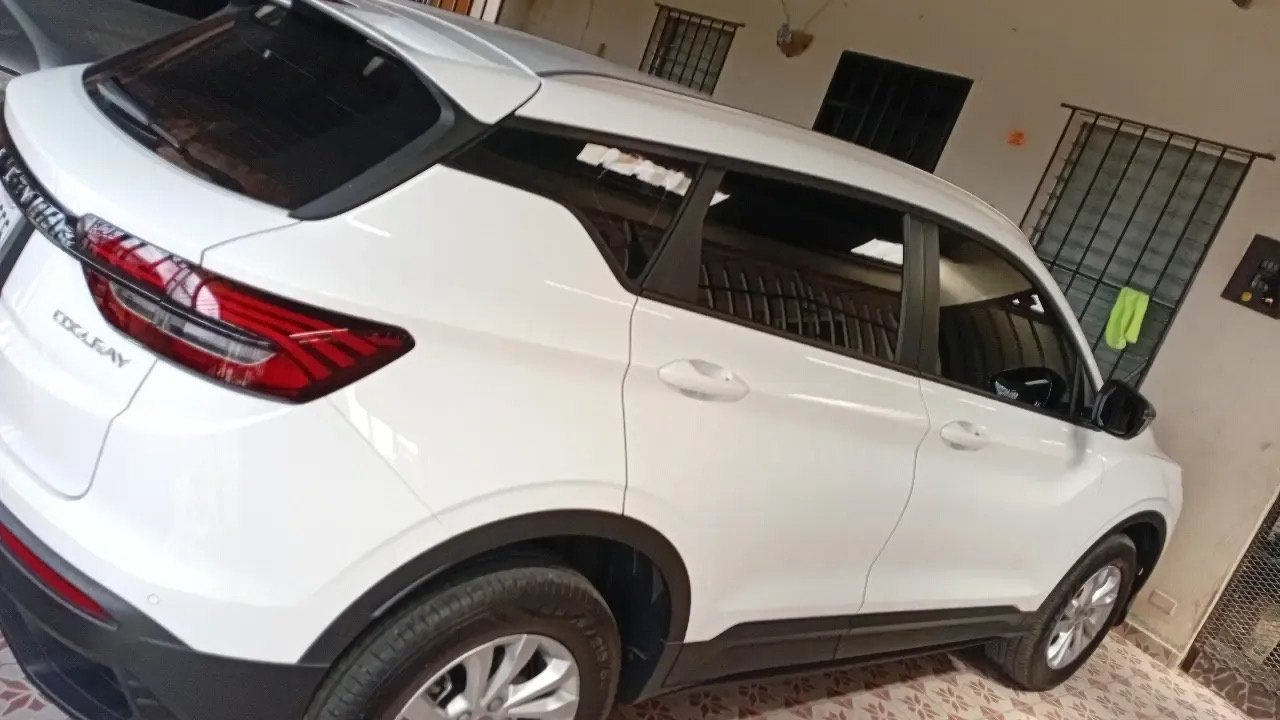
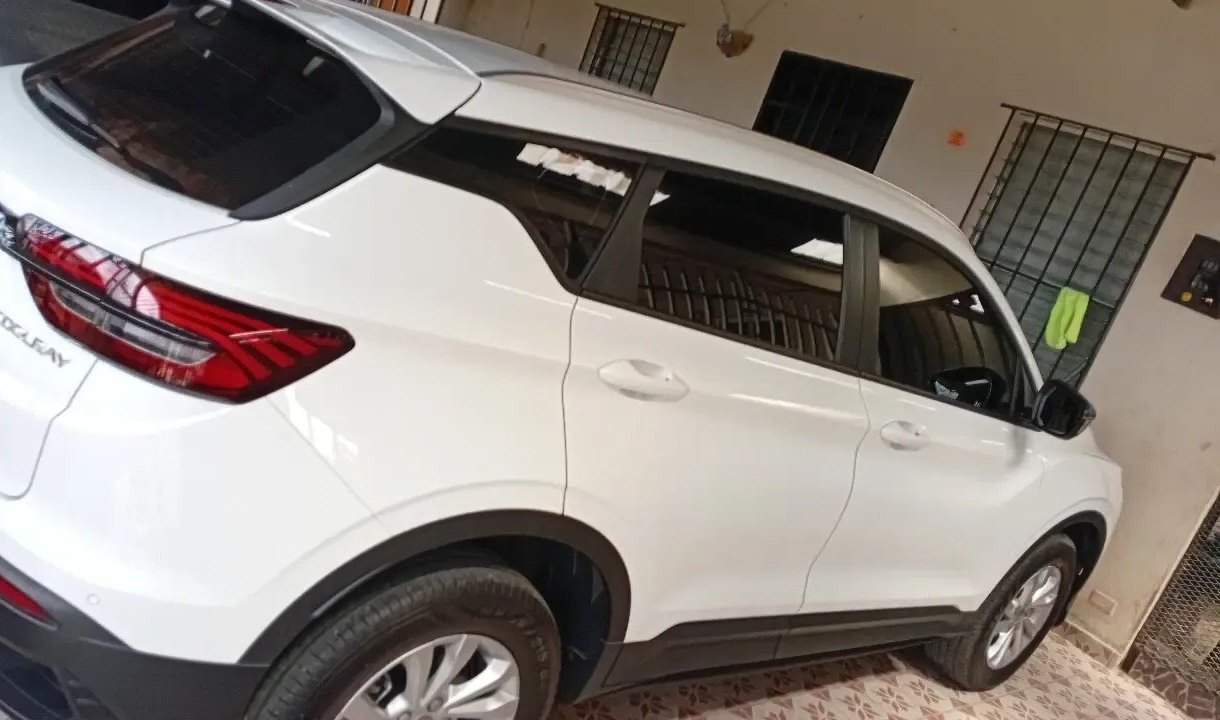
Coolray: asientos de cuero (dueño), recorte de placa en foto 02, precio confirmado (N15)
Claude-Session: https://claude.ai/code/session_01Waia73eHNWtSrif5AzmwHD

diff --git a/herramientas/build/generar-post-coolray.js b/herramientas/build/generar-post-coolray.js
@@ -1,5 +1,5 @@
 /* Carrusel de venta: Geely Coolray 2026. 5 láminas 1080x1350.
-   Año, km y transmisión dados por el dueño (2026-10-18, N15); lo demás visible en las fotos (blanco, pantalla con Apple CarPlay, asientos negros, rines de aluminio).
+   Año, km y transmisión dados por el dueño (2026-10-18, N15); lo demás visible en las fotos (blanco, pantalla con Apple CarPlay, rines; asientos de cuero según el dueño de aluminio).
    Placa real tapada con la de Josefine; precio solo por DM.
    Uso: NODE_PATH=<node_modules con playwright> node herramientas/build/generar-post-coolray.js [chakra-petch-700.ttf]
    Salida: web/kit/img/post10-coolray-XX.png */
@@ -58,7 +58,7 @@ const LAMINAS = [
   `<div class="s"><div class="bg" style="background-image:url('${foto(5)}');background-position:center"></div><div class="velo"></div>${top(`3/${T}`)}
     <div class="txt"><div class="chips"><span>Pantalla táctil</span><span>Apple CarPlay</span></div></div>${pie}</div>`,
   `<div class="s"><div class="dos"><div style="background-image:url('${foto(6)}')"></div><div style="background-image:url('${foto(7)}')"></div></div><div class="velo"></div>${top(`4/${T}`)}
-    <div class="txt"><div class="chips"><span>Asientos negros</span><span>Costura blanca</span></div></div>${pie}</div>`,
+    <div class="txt"><div class="chips"><span>Asientos de cuero</span></div></div>${pie}</div>`,
   `<div class="s cta">${top(`5/${T}`)}<div class="txt"><h2>¿Te interesa<br>el Coolray?</h2>${F}<p>Comenta</p><span class="comenta">COOLRAY</span>
     <div class="lista"><span>💬 Precio por DM</span></div></div>${pie}</div>`,
 ];

diff --git a/web/kit/index.html b/web/kit/index.html
@@ -52,7 +52,7 @@
     var WEB = "josefineauto.com";
     var POSTS = [
       { id: "post10-coolray", n: 5, semana: "HOY · En venta", titulo: "Geely Coolray 2026",
-        texto: "EN VENTA 🔥 Geely Coolray 2026\n\n📍 Panamá · 3,200 km · Automático · Blanco\n\n✅ Prácticamente nuevo\n✅ Pantalla táctil con Apple CarPlay\n✅ Asientos negros con costura blanca\n✅ Rines de aluminio\n\n💬 Precio por DM\n👇 Comenta COOLRAY y te escribimos\n🌐 " + WEB + "\n\n#geely #coolray #geelycoolray #carrospanama #autospanama #panama #josefineauto" },
+        texto: "EN VENTA 🔥 Geely Coolray 2026\n\n📍 Panamá · 3,200 km · Automático · Blanco\n\n✅ Prácticamente nuevo\n✅ Pantalla táctil con Apple CarPlay\n✅ Asientos de cuero\n✅ Rines de aluminio\n\n💬 Precio por DM\n👇 Comenta COOLRAY y te escribimos\n🌐 " + WEB + "\n\n#geely #coolray #geelycoolray #carrospanama #autospanama #panama #josefineauto" },
       { id: "post9-corolla", n: 4, semana: "HOY · En venta", titulo: "Toyota Corolla LE 2018",
         texto: "EN VENTA 🔥 Toyota Corolla LE 2018\n\n📍 Panamá · 92,000 km · Automático · Gris\n\n✅ Versión LE\n✅ Sedán 4 puertas\n✅ Rines de aluminio\n\n💬 Precio por DM\n👇 Comenta COROLLA y te escribimos\n🌐 " + WEB + "\n\n#toyota #corolla #toyotacorolla #carrospanama #autospanama #panama #josefineauto" },
       { id: "post8-cx5", n: 6, semana: "HOY · En venta", titulo: "Mazda CX-5 2015",

diff --git a/companion/web.html b/companion/web.html
@@ -654,7 +654,7 @@ window.INVENTARIO = [
       "img/carros/geely-coolray-2026/07.jpg",
       "img/carros/geely-coolray-2026/08.jpg"
     ],
-    "destacado": "Prácticamente nuevo · Color blanco · Pantalla táctil con Apple CarPlay · Asientos negros con costura blanca · Rines de aluminio"
+    "destacado": "Prácticamente nuevo · Color blanco · Pantalla táctil con Apple CarPlay · Asientos de cuero · Rines de aluminio"
   },
 
   // ===== VENDIDOS (de Instagram @josefineauto) =====

diff --git a/web/datos.js b/web/datos.js
@@ -159,7 +159,7 @@ window.INVENTARIO = [
       "img/carros/geely-coolray-2026/07.jpg",
       "img/carros/geely-coolray-2026/08.jpg"
     ],
-    "destacado": "Prácticamente nuevo · Color blanco · Pantalla táctil con Apple CarPlay · Asientos negros con costura blanca · Rines de aluminio"
+    "destacado": "Prácticamente nuevo · Color blanco · Pantalla táctil con Apple CarPlay · Asientos de cuero · Rines de aluminio"
   },
 
   // ===== VENDIDOS (de Instagram @josefineauto) =====

diff --git a/docs/normas.md b/docs/normas.md
@@ -19,7 +19,7 @@ Lo que está aquí no se vuelve a preguntar. Si dos normas chocan, manda la más
 | N12 | 2026-10-15 | Web: Mazda CX-5 2015 | «60 mil Km, 8,500 precio / Quita lo de doble salida de escape» → km 60,000 y precio $8,500 en la web (el post sigue "Precio por DM", como N11). "Doble salida de escape" ya se había quitado de la CX-5 antes de publicarla; el dueño confirmó que el X3 se queda igual. Cifra dada por el dueño en el mensaje; publicada en la misma sesión, como en N11 | Chat |
 | N13 | 2026-10-15 | Web: Toyota Corolla LE 2018 | Confirmado por el dueño en la herramienta de preguntas: «Sí, súbelo a $10,000» (publicar en esta sesión). Pedido: «Sube ese corolla a la pagina web siguiendo lo de siempre ponlo en 10 mil dólares» + respuestas «2018» y «92 mil» → precio $10,000, año 2018, 92,000 km en la web (el post sigue "Precio por DM", como N11). Transmisión: «Automatico» (dada después por el dueño). Placa tapada y teléfono del letrero trasero difuminado. El collage que mandó parece generado por IA: no se usa (la web promete fotos reales) | Chat |
 | N14 | 2026-10-17 | Web: sección Referidos | «Crea un espacio para el tema de referidos en la pagina web» + confirmado en la herramienta de preguntas: «Publícala así» → se publica "te pagamos tu comisión cuando se cierre el negocio" SIN monto; el monto lo dice el dueño a cada referido antes de cerrar. Monto y reglas formales: pendientes, en sesión nueva | Chat |
-| N15 | 2026-10-18 | Web: Geely Coolray 2026 | «Geely Coolray automatico 2026 12 mil dolares hacer post para instagram y subir a la web 3 mil 200 kms» → precio $12,000, 3,200 km, automática, año 2026 en la web (el post sigue "Precio por DM", como N11). Placa trasera tapada con la de Josefine | Chat |
+| N15 | 2026-10-18 | Web: Geely Coolray 2026 | Confirmado por el dueño en la herramienta de preguntas: «Sí, a $12,000». Pedido: «Geely Coolray automatico 2026 12 mil dolares hacer post para instagram y subir a la web 3 mil 200 kms» → precio $12,000, 3,200 km, automática, año 2026 en la web (el post sigue "Precio por DM", como N11). Placa trasera tapada con la de Josefine. Asientos: «Pon solo asientos de cuero» | Chat |
 
 ## Consecuencias de N06 en este proyecto (2026-10-05)
 - Gate `herramientas/check.py` en hook Stop y pre-push; lista `PENDIENTE-DUENO.md`; este registro; `CONTINUAR.md`; `IDEAS.md`; agente revisor.
